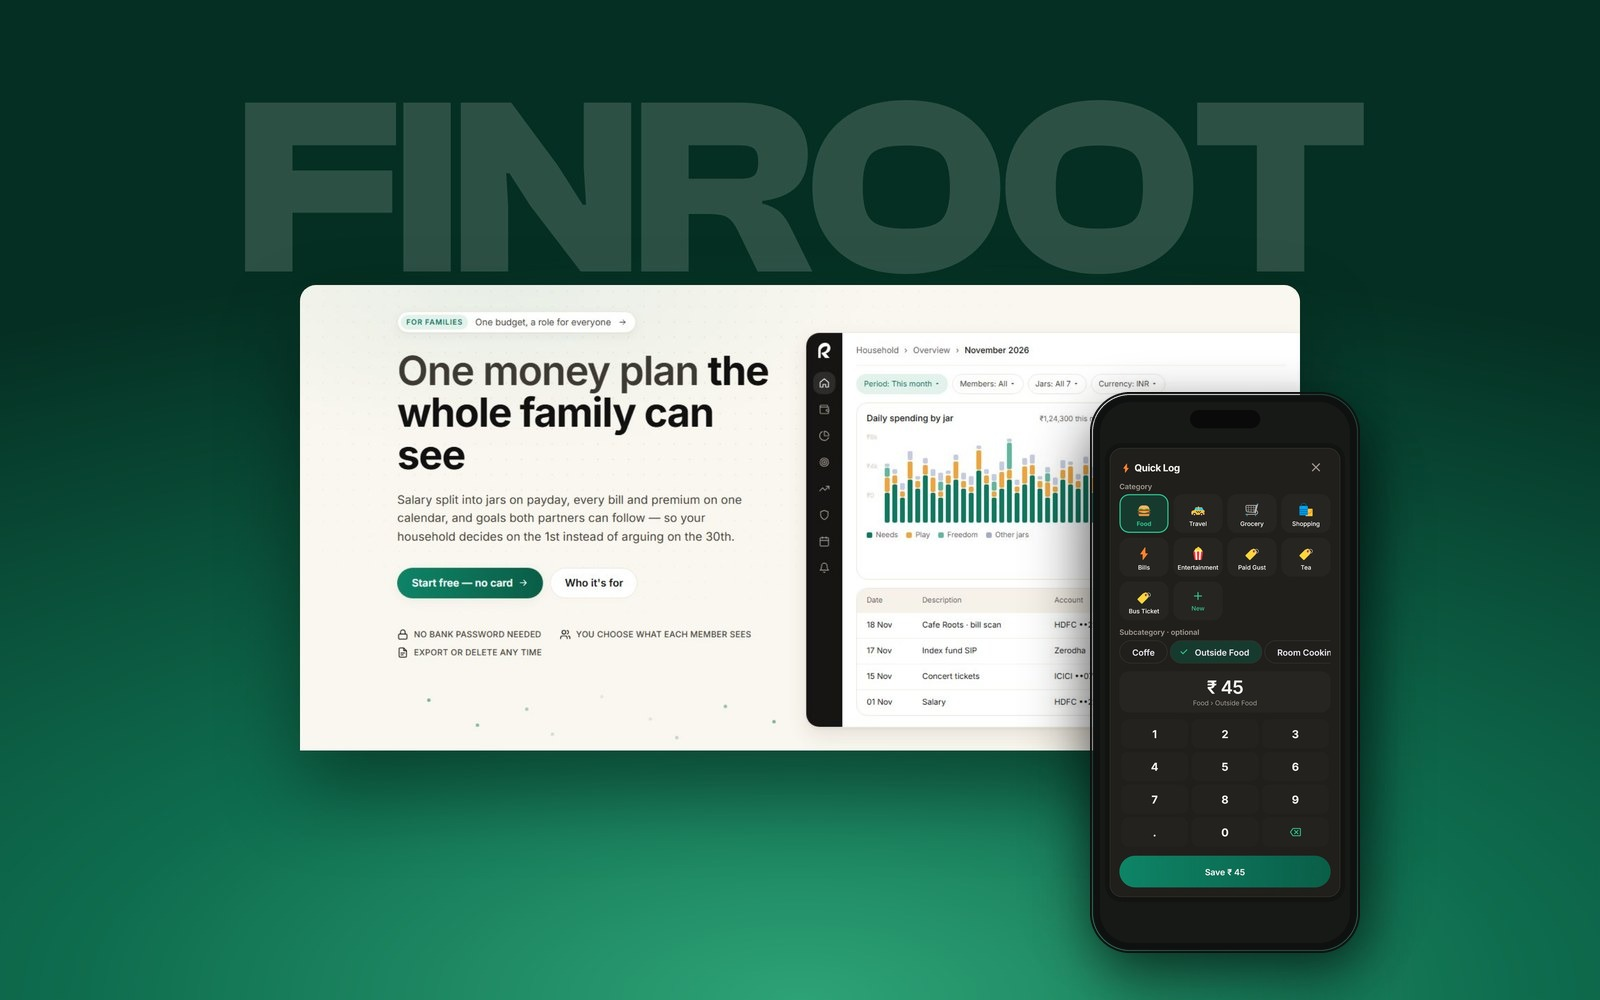
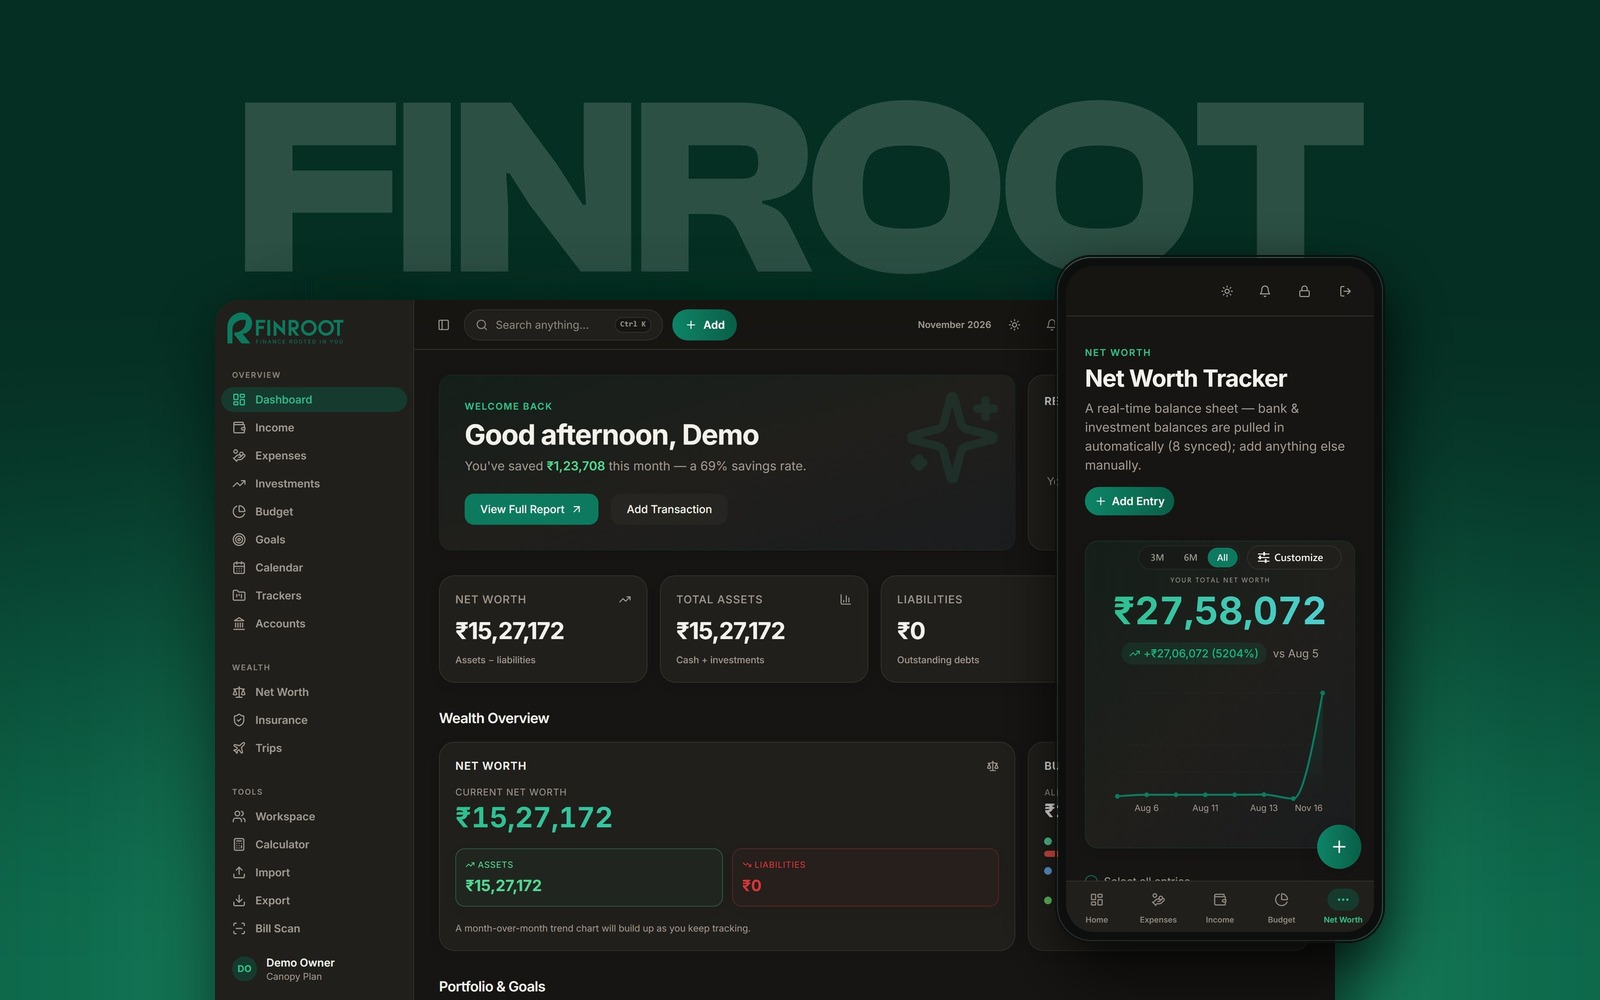
New FinRoot cover: real dark Dashboard on desktop and Net Worth on a phone
Rebuilt in the style of the FinRoot Behance cover from the real app
screens (no website): a large frameless dark Dashboard running off the
bottom and a complete phone showing the Net Worth tracker, on the green
FINROOT background. The phone's "YOUR TOTAL NET WORTH" label, hidden
behind the range buttons in the screenshot, is redrawn above the amount.
Everything sits inside the area the project cards and menu thumbnail
keep after cropping. Alt text updated to match.

diff --git a/finroot.html b/finroot.html
@@ -70,7 +70,7 @@
     <div><dt>Type</dt><dd>Own</dd><small>product</small></div>
   </dl>
   <p class="rx-desc">One money plan the whole family can see: salary split into buckets on payday, every bill and premium on one calendar, and goals both partners can follow.</p>
-  <div class="hero__cover pd-cover" data-item="cover" style="view-transition-name:shot-finroot;view-transition-class:shot"><img src="assets/images/projects/finroot/cover.jpg" alt="FinRoot: the household overview on a laptop and Quick Log on a phone, in front of a large FINROOT wordmark on green" /></div>
+  <div class="hero__cover pd-cover" data-item="cover" style="view-transition-name:shot-finroot;view-transition-class:shot"><img src="assets/images/projects/finroot/cover.jpg" alt="FinRoot in dark mode: the Dashboard on desktop and the Net Worth tracker on a phone, in front of a large FINROOT wordmark on green" /></div>
 </header>
 
 
